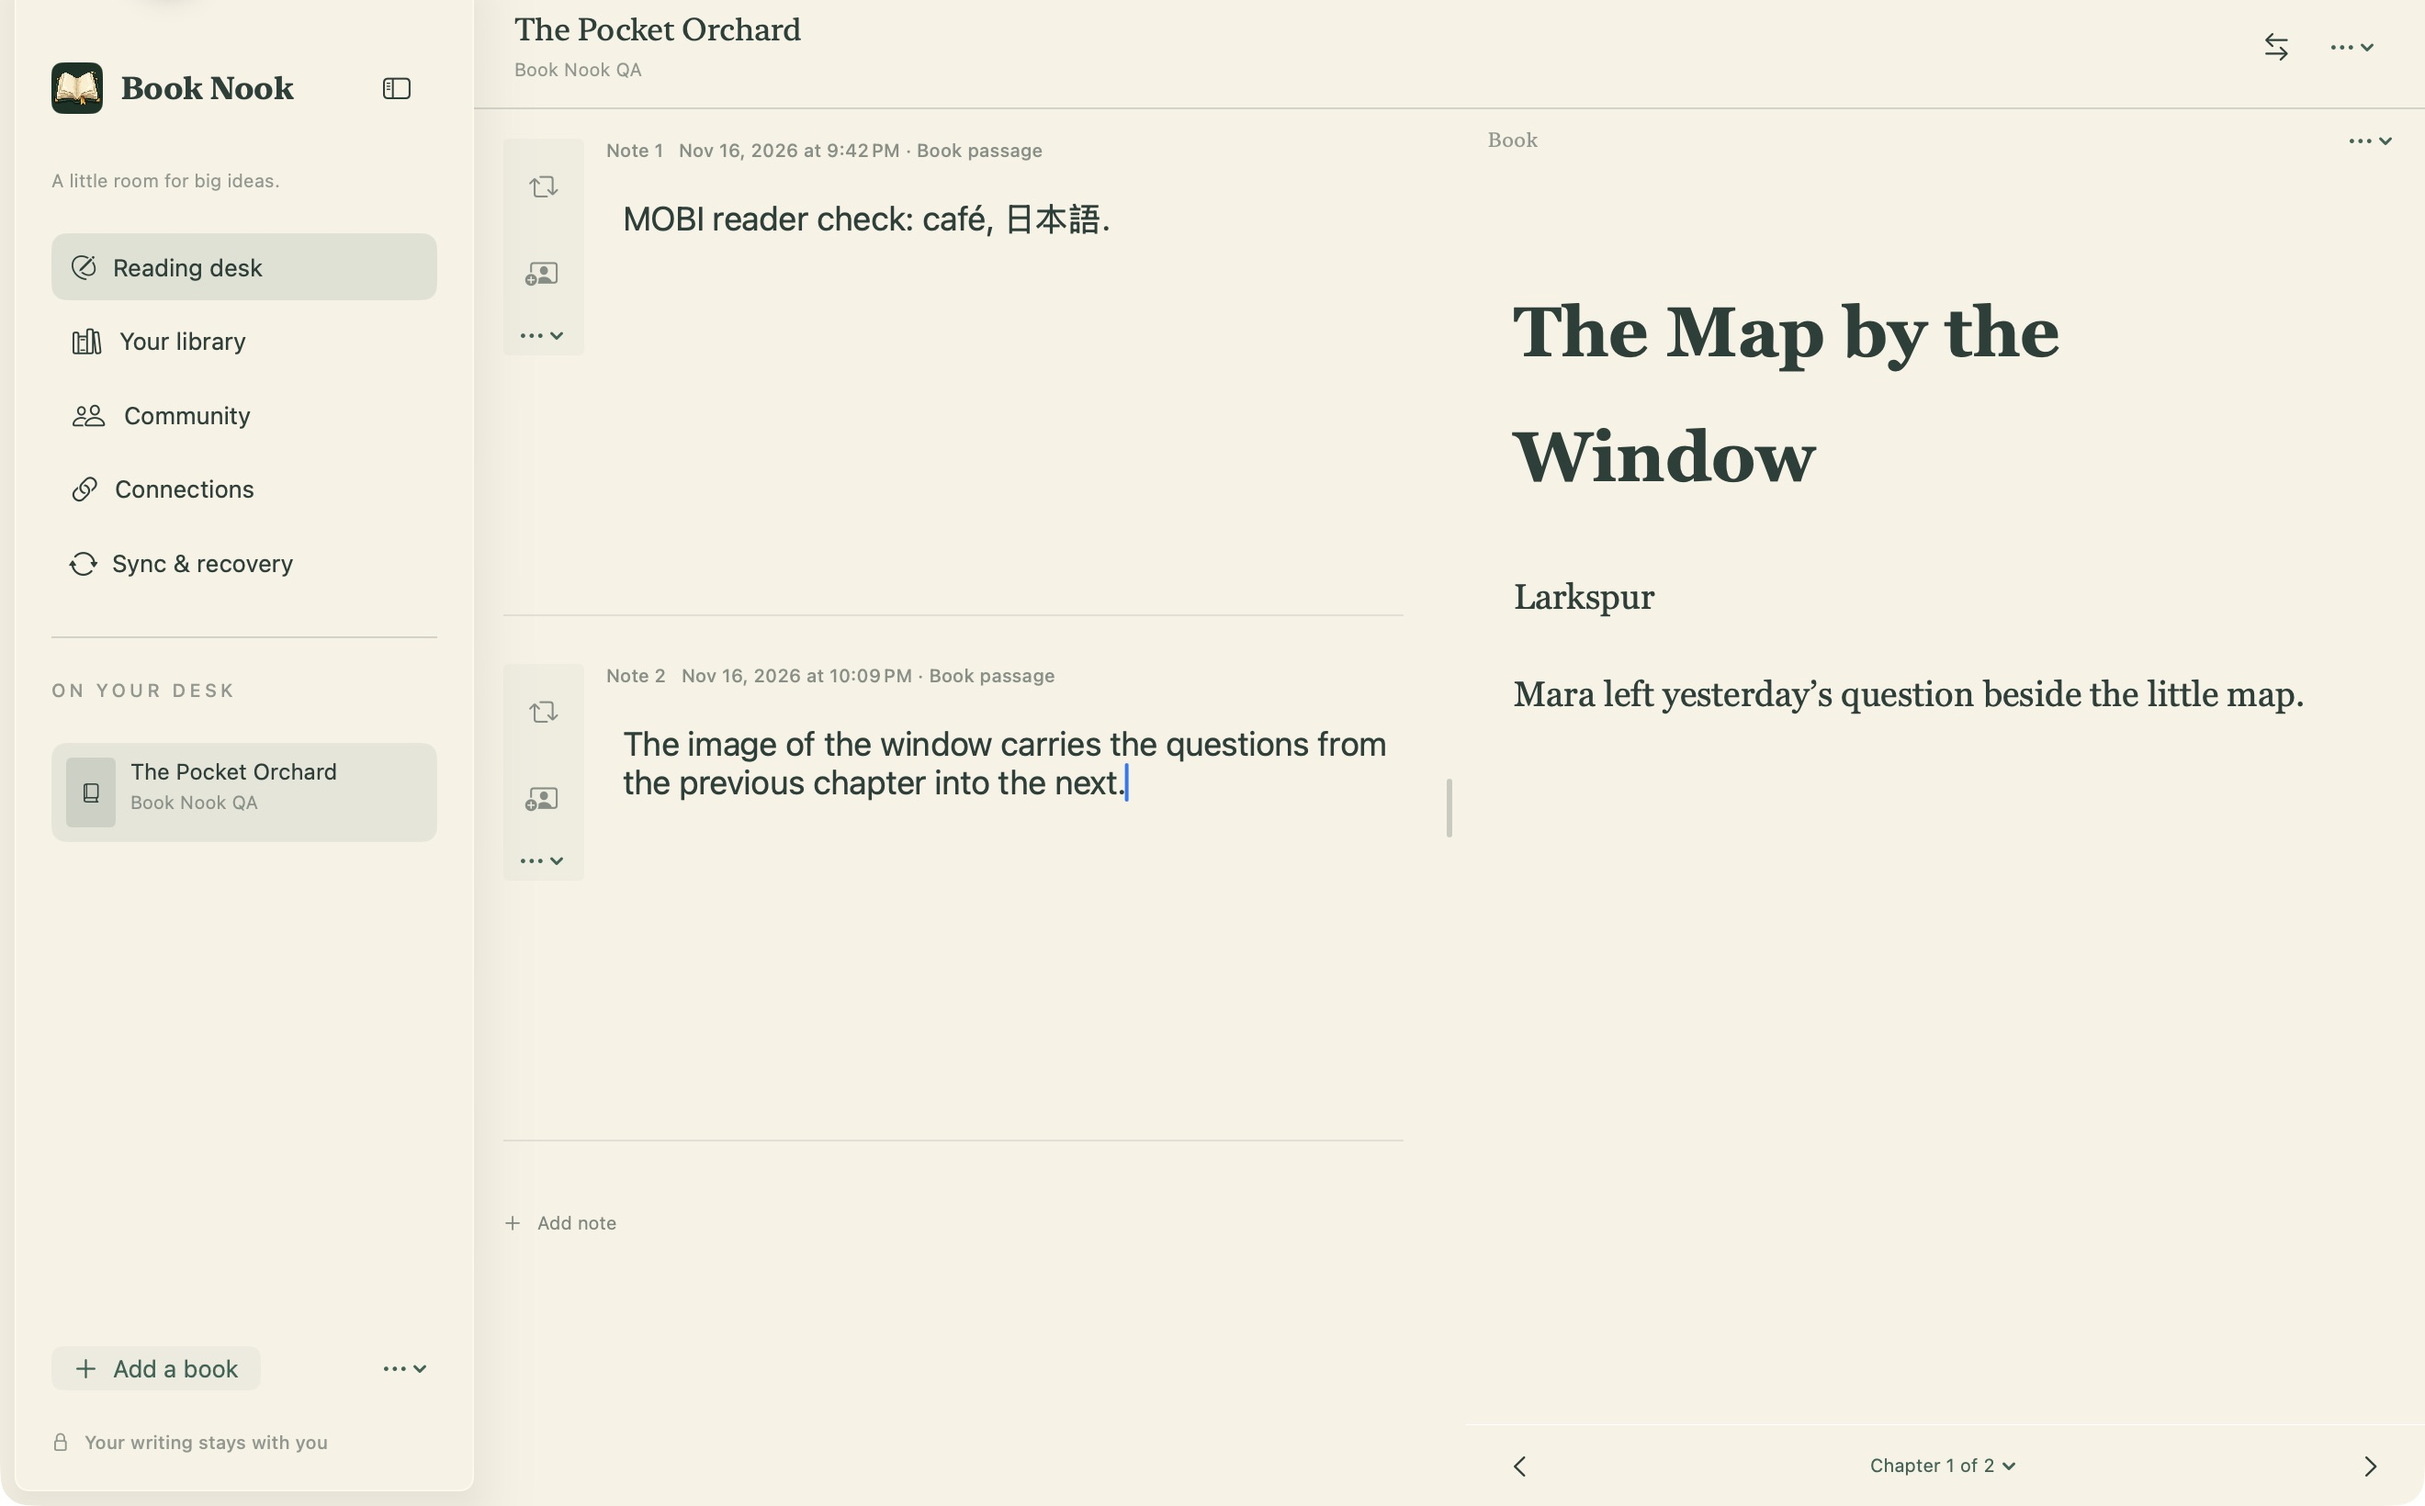
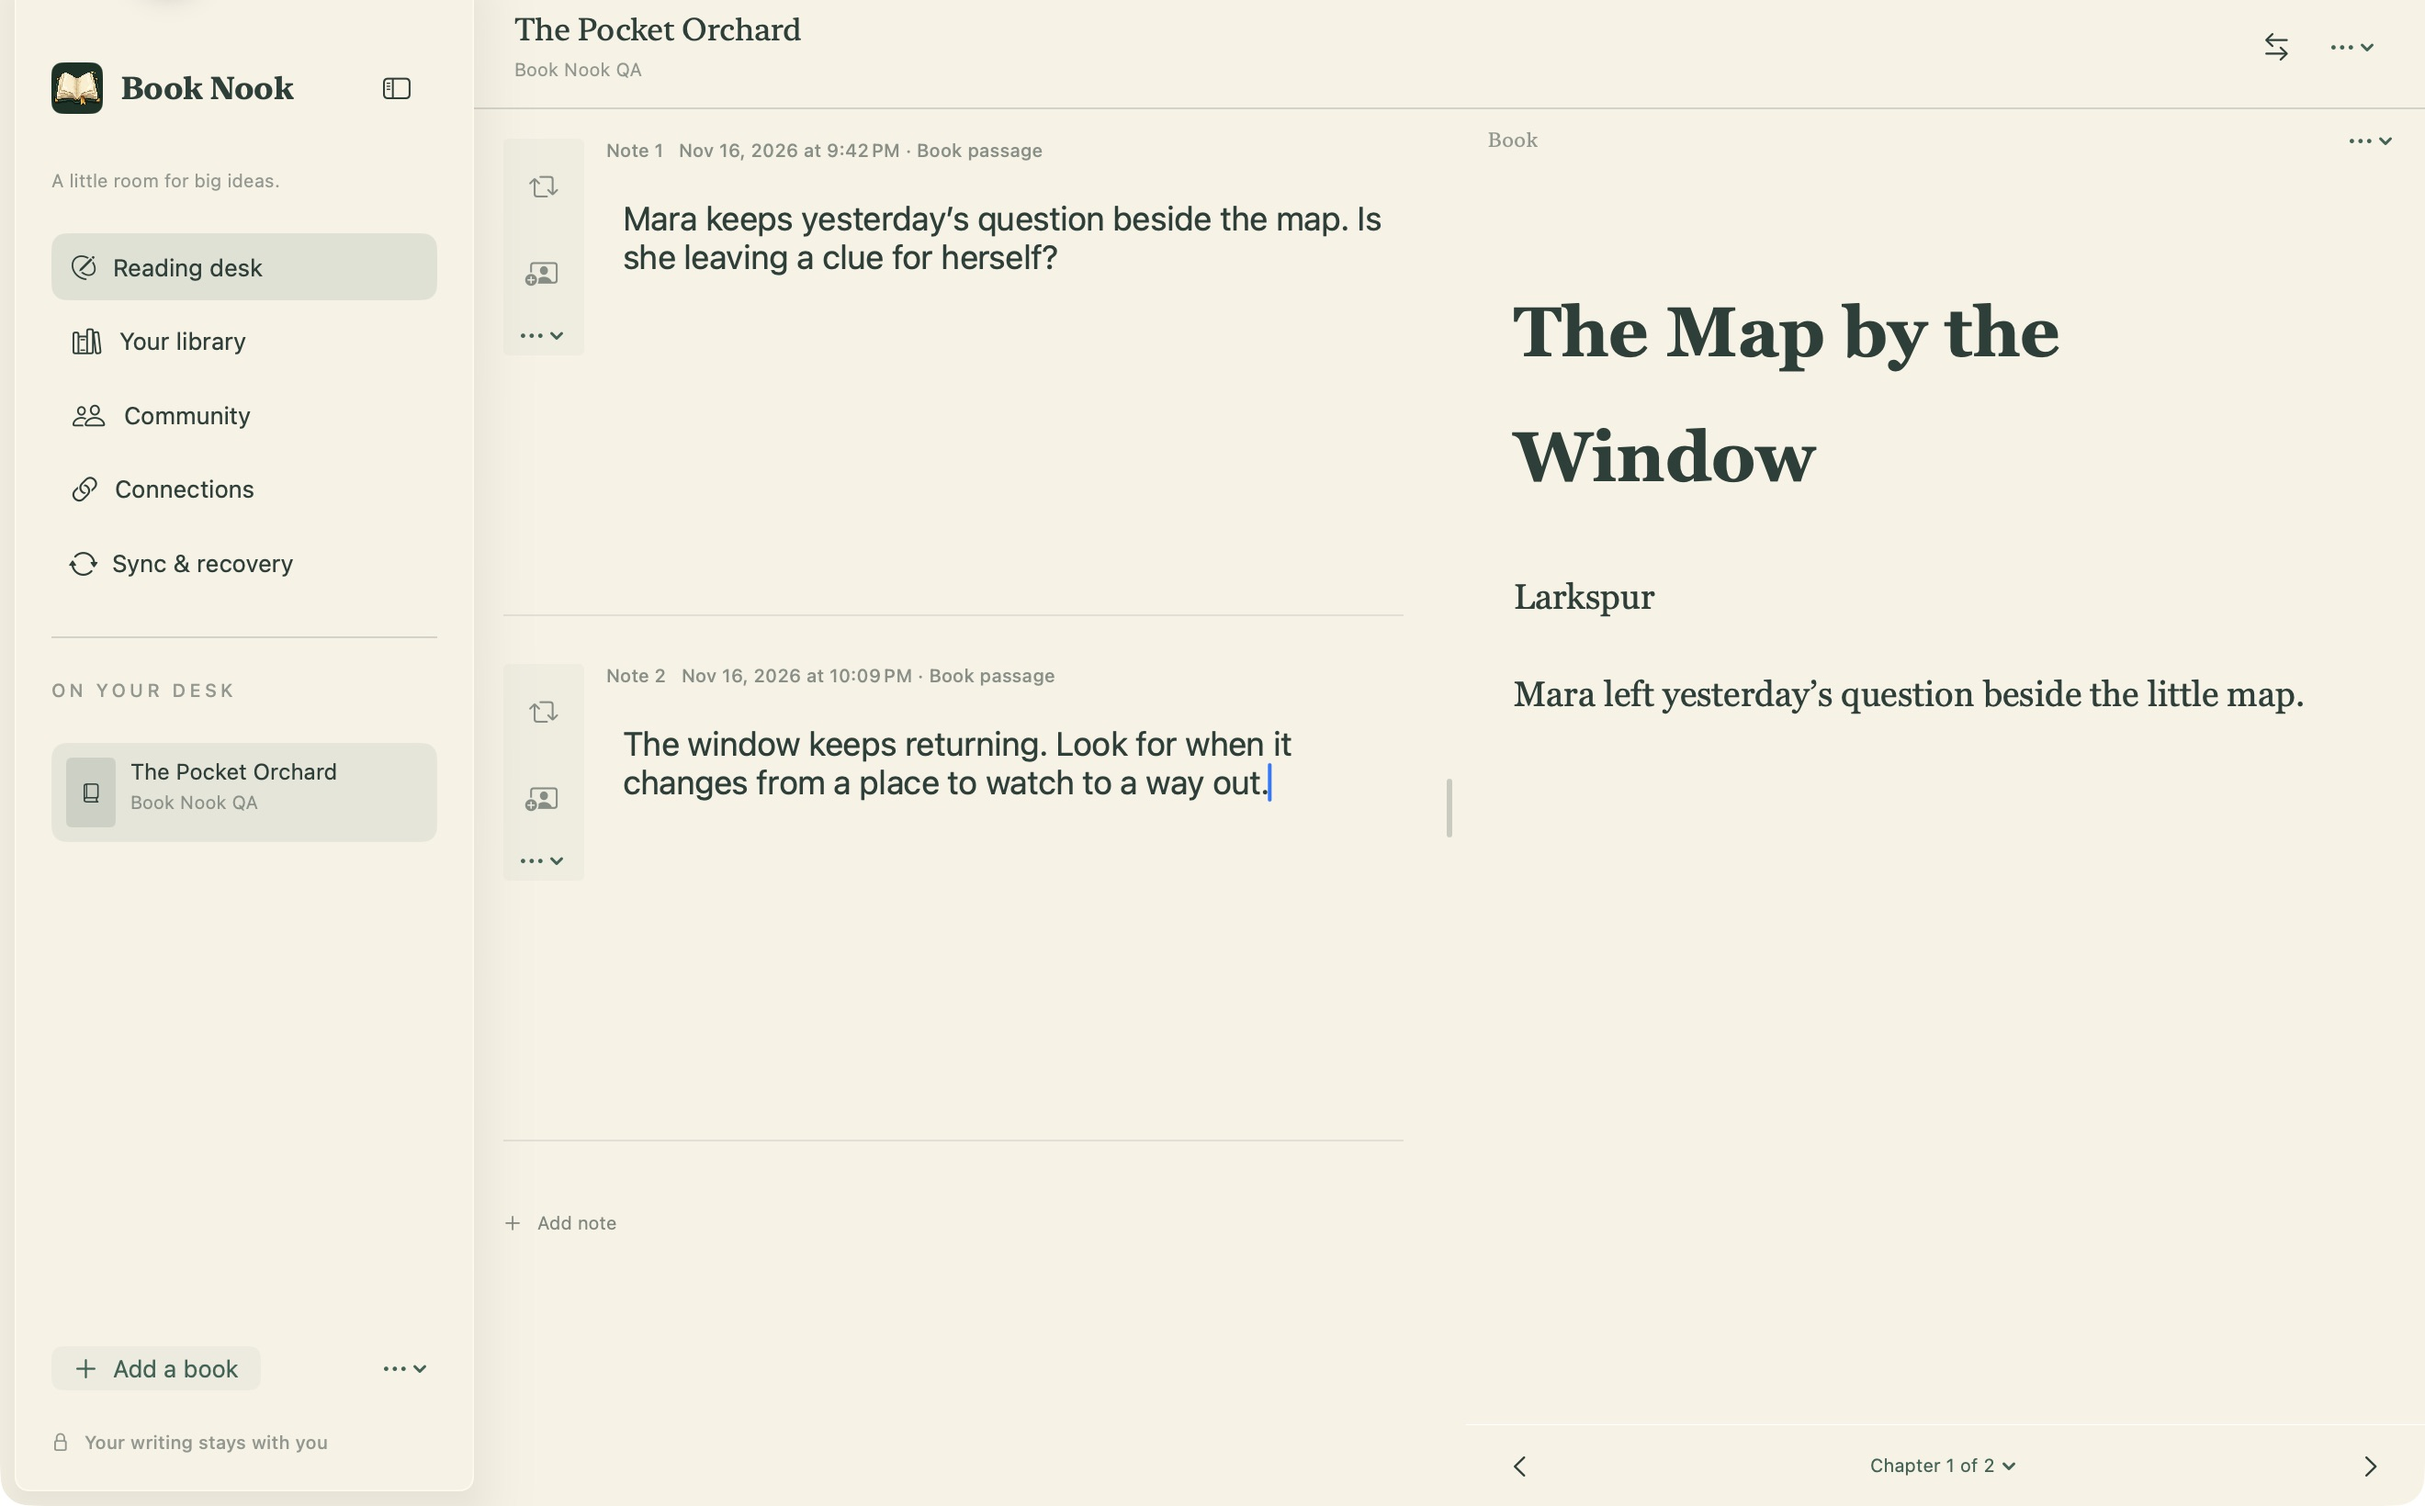
Record Book Nook 1705 delivery and align Apple SDK runner

Changed region(s): [[0.2485, 0.4665, 0.5591, 0.5287], [0.2485, 0.1244, 0.5591, 0.1866]]

diff --git a/README.md b/README.md
@@ -6,6 +6,8 @@ A native reading notebook for macOS and iPad, backed by open Rust, Swift and WAS
 
 The implementation includes an offline reading desk, rich TextKit editing, EPUB, PDF, and legacy MOBI6 reading and annotation, character interpretation history, imports, Castalia consent, approved encrypted device transfers, Nostr social workflows, and reviewed RSS/Atom settings with offline publications. **It is not a qualified production release:** live Kindle/Audible/Castalia access, current physical input/accessibility, remote social/device sync and minimum-OS runtime checks remain open. Unavailable integrations return explicit errors. See [delivery status](docs/DELIVERY.md), the [full-plan acceptance matrix](docs/PLAN-ACCEPTANCE.md), [validation](docs/VALIDATION.md), the [decision log](docs/DECISIONS.md), the [UX review](docs/UX-REVIEW.md), and [DevGraph work tracking](docs/DEVGRAPH.md).
 
+**[App preview 0.2.1, build 2026111705](https://github.com/bananawalnut/booknook/releases/tag/v0.2.1-app-preview.20261117.5)** preserves the passage, reading pass, and available book and audio positions when you save a character-card revision. The normal iPad app is running 1705 with its saved finger-drawn Scribble preserved. All eight public downloads matched their checksums. [Build 1705 evidence](docs/app-2026111705-public-preview-evidence.json)
+
 **[App preview 0.2.1, build 2026111704](https://github.com/bananawalnut/booknook/releases/tag/v0.2.1-app-preview.20261117.4)** improves reading-position recovery in long EPUB and MOBI passages and adds replies in reading groups. All eight public downloads passed checksum verification. The normal iPad app updated in place and reopened with its library and previously saved finger-drawn Scribble preserved. [Build 1704 evidence](docs/app-2026111704-public-preview-evidence.json)
 
 **[App preview 0.2.1, build 2026111703](https://github.com/bananawalnut/booknook/releases/tag/v0.2.1-app-preview.20261117.3)** adds **Book options → Attached editions** so readers can return to an earlier copy with its own reading position and highlights. Mac edition switching passed on the released app, all eight public downloads matched their checksums, and the normal iPad app launched after an update that preserved its library and orientation. [Build 1703 evidence](docs/app-2026111703-public-preview-evidence.json)
@@ -44,7 +46,7 @@ The earlier iPad acceptance check [updated the normal app in place to 0.2.1 (202
 
 ![Book Nook iPad reading desk in portrait, with three text notes alongside an EPUB](docs/screenshots/ipad-current.png)
 
-Both images show native Release build **2026111704** using sample EPUBs. The iPad image comes from an iPad Air 13-inch Simulator. [Capture details](docs/screenshots/README.md)
+Both images show native Release build **2026111705** using sample EPUBs. The iPad image comes from an iPad Air 13-inch Simulator. [Capture details](docs/screenshots/README.md)
 
 ## Run the native apps
 

diff --git a/docs/DECISIONS.md b/docs/DECISIONS.md
@@ -274,3 +274,4 @@ Detailed workstream records: [social](decisions/social.md), [integrations](decis
 | D186 | Give native group discussions an explicit Reply action. | Bind each draft to the reader, group, and parent record. Recheck visibility before consent, disclose the parent identifier without copying its text, and preserve a private draft when approval is canceled or denied. Approved replies use the existing outbox and require a separate send. |
 | D187 | Freeze reading context when saving a character-card revision. | Capture the selected passage, time, reviewed parents, reading pass and available source observations together before persistence. Publish an additive command contract and SDK 0.2.3 candidate. Keep existing Rust constructors, JSON commands, stored card history and issued ontology release artifacts compatible. [Command contract](../ontology/commands/v1/manifest.json) |
 | D188 | Publish app preview 1704 and verify the normal iPad update separately. | Release the exact hosted source as an app-only preview. Check three fresh archives and all eight downloaded assets. Use the existing Apple development profile for the in-place iPad update, verify saved ink through relaunch, and leave orientation to the device. Use released binaries with synthetic libraries for README screenshots. Record the finger stroke on 1703 and its preservation on 1704. [Build 1704 evidence](app-2026111704-public-preview-evidence.json) |
+| D189 | Publish app 1705 separately and recover SDK packaging on the tested Apple runner label. | The exact app release passes three archive checks, eight public download checks, and the normal iPad update. Character history also passes the two-store encrypted transfer with synthetic approvals. Two SDK Apple jobs on macos-26 were canceled before running any steps. Use macos-latest for the next SDK candidate because the same label passed the app build and Swift package checks. Keep the arm64 assertion. [Build 1705 evidence](app-2026111705-public-preview-evidence.json) |

diff --git a/docs/DELIVERY.md b/docs/DELIVERY.md
@@ -2,6 +2,8 @@
 
 Book Nook has an integrated native development app and open Rust, Swift, and WASM/TypeScript SDKs. Production qualification still requires live source accounts, operational Castalia authority, remote exchange, hands-on physical iPad checks, and runtime checks on the oldest supported OS versions.
 
+[Native app preview 0.2.1, build 2026111705](https://github.com/bananawalnut/booknook/releases/tag/v0.2.1-app-preview.20261117.5) saves the reader’s original context with each character-card revision. All 38 source CI steps, three independently verified Apple archives, and eight public downloads passed. The normal iPad update preserved its library, saved hand-drawn ink, and observed orientation. SDK 0.2.3 publication remains separate. [Build 1705 evidence](app-2026111705-public-preview-evidence.json)
+
 [Native app preview 0.2.1, build 2026111704](https://github.com/bananawalnut/booknook/releases/tag/v0.2.1-app-preview.20261117.4) adds group replies and recovers the visible line inside long EPUB and MOBI text runs. All 38 source CI steps, three independently verified Apple archives and eight public downloads passed. The normal iPad app updated in place and launched with its library, saved ink and observed orientation preserved. The finger stroke was drawn on 1703. Pencil, hardware Undo/Redo, IME and VoiceOver remain open. [Build 1704 evidence](app-2026111704-public-preview-evidence.json)
 
 [Native app preview 0.2.1, build 2026111703](https://github.com/bananawalnut/booknook/releases/tag/v0.2.1-app-preview.20261117.3) lets readers reopen earlier attached editions with their respective positions and highlights. All 38 source CI steps, three independently checked Apple archives and eight public downloads passed. The released Mac app switched between a synthetic MOBI and EPUB. The normal physical iPad app launched with its database and orientation preserved after the update. [Build 1703 evidence](app-2026111703-public-preview-evidence.json)

diff --git a/docs/PLAN-ACCEPTANCE.md b/docs/PLAN-ACCEPTANCE.md
@@ -6,7 +6,9 @@ This audit keeps the original native MVP and SDK scope intact. A passing source 
 
 [SDK 0.2.2 delivery evidence](sdk-022-public-preview-evidence.json) records independent Rust archive export, installed Node and Chrome WASM validation, and Swift restore and reopen against the exact released packages. The test covers a synthetic legacy MOBI6 and compares the original source and regenerated XHTML. All 17 public checksums passed. The macOS runtime acceptance and the iPadOS library slices have distinct evidence.
 
-## Native app 1705 and SDK 0.2.3 source checkpoint
+## Native app 1705 and SDK 0.2.3 checkpoint
+
+[Build 1705 evidence](app-2026111705-public-preview-evidence.json) records the three verified Apple archives, eight public downloads, current native screenshots and the normal iPad update. The original finger-drawn Scribble remained intact through both updates.
 
 Saving a character-card revision now captures the selected passage, time, reading pass, and available ebook and audio observations at the same point. The linked Swift workflow checks an unacknowledged reader observation, fresher ebook and audio updates, and a late branch outside the reviewed parents. The original context and independent branch survive SQLite reopen. The native portable archive regression also verifies export and restore. Older save commands and stored card versions use their existing contracts. [Versioned command schema and fixture](../ontology/commands/v1/manifest.json)
 

diff --git a/docs/screenshots/README.md b/docs/screenshots/README.md
@@ -4,7 +4,7 @@ Both captures use native Book Nook **0.2.1 Release apps** and synthetic desks.
 
 | Screenshot | Build | Workspace | Capture environment |
 |---|---|---|---|
-| [macOS reading desk](macos-current.jpg) | 2026111704 | The Pocket Orchard EPUB and two Margin notes | macOS 26.4.1 native app window |
-| [iPad reading desk](ipad-current.png) | 2026111704 | *The Quiet Library* EPUB and three Margin notes | iPad Air 13-inch (M2), iPadOS 18.6 Simulator, portrait |
+| [macOS reading desk](macos-current.jpg) | 2026111705 | The Pocket Orchard EPUB and two Margin notes | macOS 26.4.1 native app window |
+| [iPad reading desk](ipad-current.png) | 2026111705 | *The Quiet Library* EPUB and three Margin notes | iPad Air 13-inch (M2), iPadOS 18.6 Simulator, portrait |
 
-The Mac image is an actual app window with an 80-pixel top crop. The iPad image preserves the original Simulator framebuffer. [Capture metadata](current.json) identifies each executable, source commit and image hash. [Build 1704 evidence](../app-2026111704-public-preview-evidence.json) records the separate installation on the physical iPad.
+The Mac image is an actual app window with an 80-pixel top crop. The iPad image preserves the original Simulator framebuffer. [Capture metadata](current.json) identifies each executable, source commit and image hash. [Build 1705 evidence](../app-2026111705-public-preview-evidence.json) records the separate installation on the physical iPad.

diff --git a/sdk/typescript/README.md b/sdk/typescript/README.md
@@ -1,6 +1,6 @@
 # Book Nook JavaScript SDK
 
-The package includes a typed facade, ESM/CommonJS JavaScript, and separate browser/Node WebAssembly runtimes. It requires no Book Nook server. Install a locally generated `booknook-sdk-0.2.2.tgz`; no npm registry publication is assumed.
+The package includes a typed facade, ESM/CommonJS JavaScript, and separate browser/Node WebAssembly runtimes. It requires no Book Nook server. Install a locally generated `booknook-sdk-<version>.tgz`; no npm registry publication is assumed.
 
 ```js
 import {BookNook} from '@booknook/sdk';
